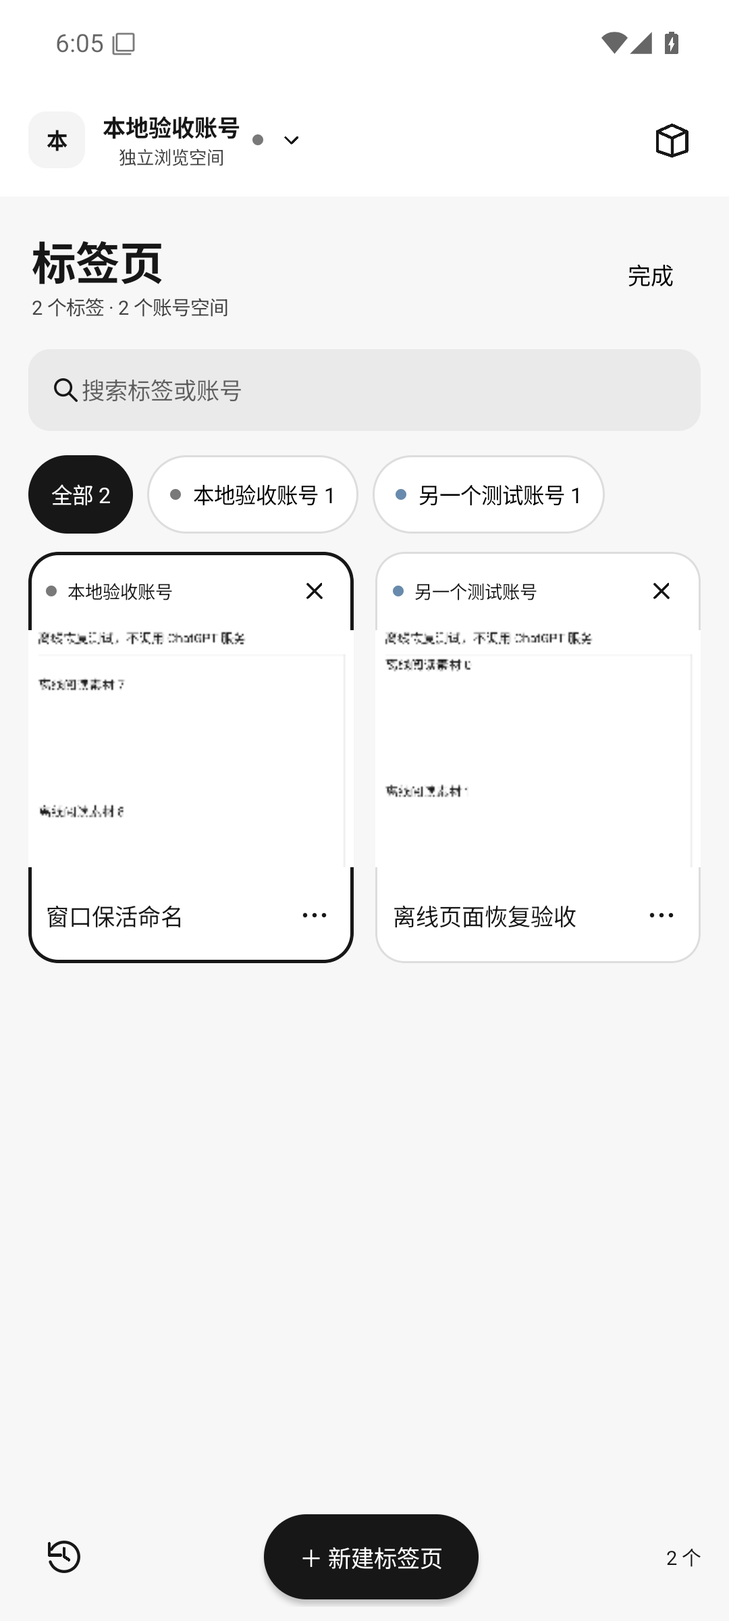
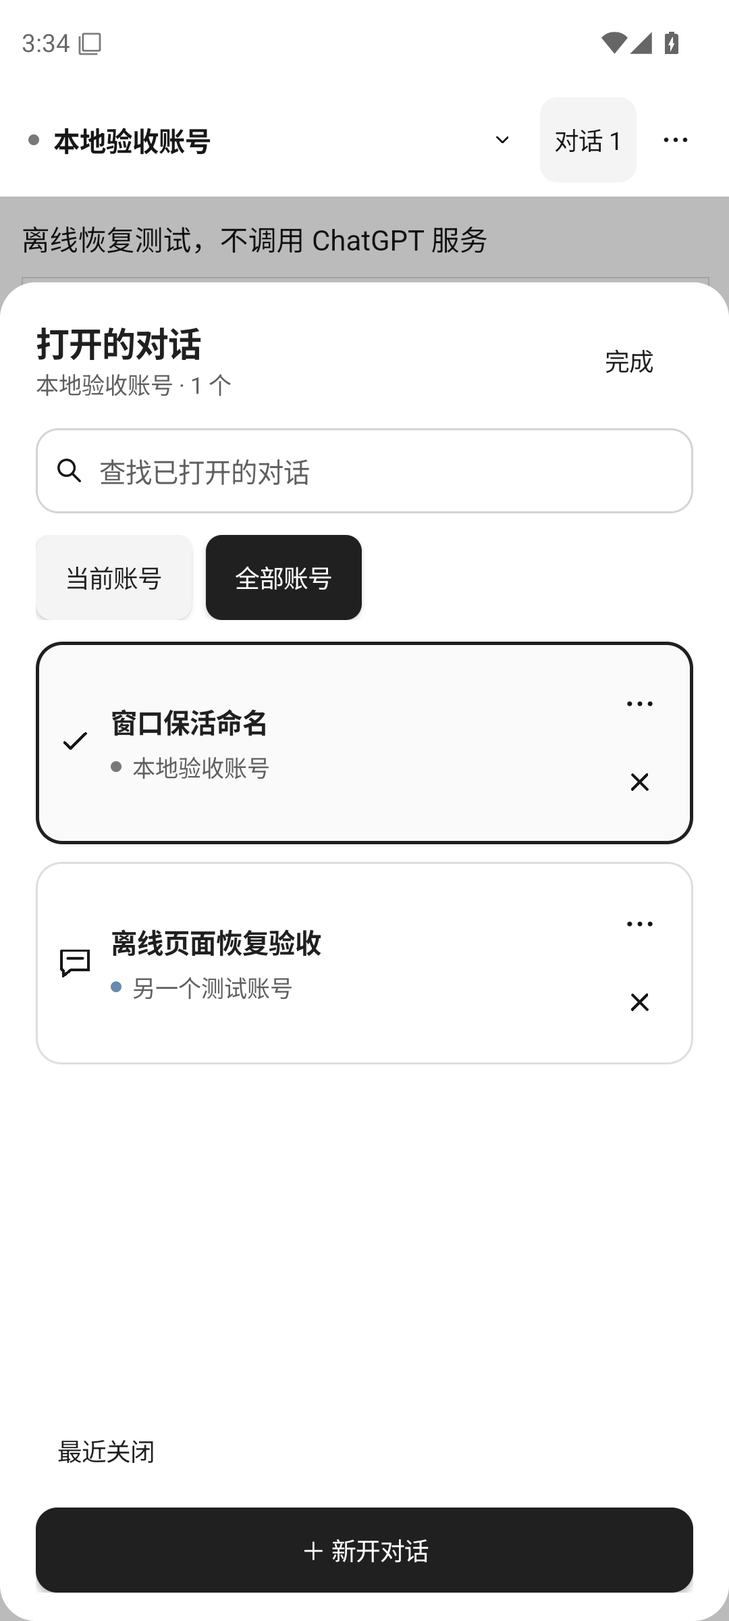
Prepare alpha.18 release and current website metadata

diff --git a/site/index.html b/site/index.html
@@ -17,7 +17,7 @@
     <link rel="canonical" href="https://chatgpt-studio.pages.dev/" />
     <meta property="og:url" content="https://chatgpt-studio.pages.dev/" />
     <title>ChatGPT Studio — 切换账号，保持专注</title>
-    <link rel="icon" type="image/svg+xml" href="/assets/icon.svg?v=3.0.0-alpha.17" />
+    <link rel="icon" type="image/svg+xml" href="/assets/icon.svg?v=3.0.0-alpha.18" />
     <link rel="stylesheet" href="/styles.css" />
     <script src="/app.js" defer></script>
   </head>
@@ -50,7 +50,7 @@
     <header class="header">
       <div class="nav-wrap container">
         <a class="brand" href="#" aria-label="ChatGPT Studio 首页"
-          ><span class="brand-mark"><img src="/assets/icon.svg?v=3.0.0-alpha.17" width="36" height="36" alt="" /></span
+          ><span class="brand-mark"><img src="/assets/icon.svg?v=3.0.0-alpha.18" width="36" height="36" alt="" /></span
           ><span>ChatGPT <b>Studio</b></span></a
         >
         <nav aria-label="主导航">
@@ -74,7 +74,7 @@
         <div class="hero-topline">
           <span><i class="status-dot"></i> PERSONAL WORKSPACE, REDEFINED.</span
           ><span class="hero-build"
-            >CHATGPT STUDIO · v3.0.0-alpha.17 / MAC · WINDOWS · ANDROID <span>↗</span></span
+            >CHATGPT STUDIO · v3.0.0-alpha.18 / MAC · WINDOWS · ANDROID <span>↗</span></span
           >
         </div>
         <div class="hero-grid">
@@ -297,28 +297,28 @@
             <article class="download-card" data-os="windows">
               <div class="download-card-top">
                 <svg class="os-icon filled"><use href="#windows" /></svg
-                ><span class="version">v3.0.0-alpha.17</span>
+                ><span class="version">v3.0.0-alpha.18</span>
               </div>
               <h3>Windows <span>x64</span></h3>
               <p class="system-requirement">Windows 10 / 11 · 64 位</p>
               <p class="platform-description">
-                交互 HTML、音视频与系统应用打开。<br />资产工作台、格式转换与草稿恢复。
+                清晰字号、窄窗详情与文件管理。<br />HTML、音视频、格式转换与草稿恢复。
               </p>
               <a
                 class="button button-platform"
-                href="https://github.com/ForceMind/ChatGPT/releases/download/v3.0.0-alpha.17/ChatGPT-Profiles-3.0.0-alpha.17-windows-x64-setup.exe"
+                href="https://github.com/ForceMind/ChatGPT/releases/download/v3.0.0-alpha.18/ChatGPT-Profiles-3.0.0-alpha.18-windows-x64-setup.exe"
                 ><span>下载 EXE 安装包</span><svg><use href="#download" /></svg
               ></a>
               <div class="download-secondary">
                 <span>124.9 MiB</span
                 ><a
-                  href="https://github.com/ForceMind/ChatGPT/releases/download/v3.0.0-alpha.17/ChatGPT-Profiles-3.0.0-alpha.17-windows-x64.zip"
+                  href="https://github.com/ForceMind/ChatGPT/releases/download/v3.0.0-alpha.18/ChatGPT-Profiles-3.0.0-alpha.18-windows-x64.zip"
                   >免安装 ZIP · 172.4 MiB <span>↗</span></a
                 >
               </div>
               <details class="accelerated-download">
                 <summary>国内用户加速下载 <span aria-hidden="true">+</span></summary>
-                <div class="accelerated-links"><a href="https://gh-proxy.org/https://github.com/ForceMind/ChatGPT/releases/download/v3.0.0-alpha.17/ChatGPT-Profiles-3.0.0-alpha.17-windows-x64-setup.exe" rel="noopener noreferrer" referrerpolicy="no-referrer">EXE 安装包 <span aria-hidden="true">↗</span></a><a href="https://gh-proxy.org/https://github.com/ForceMind/ChatGPT/releases/download/v3.0.0-alpha.17/ChatGPT-Profiles-3.0.0-alpha.17-windows-x64.zip" rel="noopener noreferrer" referrerpolicy="no-referrer">免安装 ZIP <span aria-hidden="true">↗</span></a></div>
+                <div class="accelerated-links"><a href="https://gh-proxy.org/https://github.com/ForceMind/ChatGPT/releases/download/v3.0.0-alpha.18/ChatGPT-Profiles-3.0.0-alpha.18-windows-x64-setup.exe" rel="noopener noreferrer" referrerpolicy="no-referrer">EXE 安装包 <span aria-hidden="true">↗</span></a><a href="https://gh-proxy.org/https://github.com/ForceMind/ChatGPT/releases/download/v3.0.0-alpha.18/ChatGPT-Profiles-3.0.0-alpha.18-windows-x64.zip" rel="noopener noreferrer" referrerpolicy="no-referrer">免安装 ZIP <span aria-hidden="true">↗</span></a></div>
                 <p>通过第三方 gh-proxy.org 下载；原始下载入口保留。安装前请核对下方 SHA-256，加速服务可能暂时不可用。</p>
               </details>
               <div class="platform-note">
@@ -329,7 +329,7 @@
                 <summary>版本说明与文件校验 <span>+</span></summary>
                 <p>
                   客户端真机与真实登录待验。<a
-                    href="https://github.com/ForceMind/ChatGPT/releases/tag/v3.0.0-alpha.17"
+                    href="https://github.com/ForceMind/ChatGPT/releases/tag/v3.0.0-alpha.18"
                     target="_blank"
                     rel="noopener noreferrer"
                     >查看发布说明 ↗</a
@@ -339,22 +339,22 @@
                   <span>EXE · SHA-256</span
                   ><button
                     type="button"
[2 lines of base64/hex data omitted]
                   >
                     复制</button
                   ><code
-                    >6f6b5e5381d1f8b8ce6fc7865b6bce780314a734ba4ed37cd2b243eac9b0b54a</code
+                    >60d5ee520b2bc758f251eecd190c08385ab4a562f0c0a789a828fd8643768db6</code
                   >
                 </div>
                 <div class="hash-row">
                   <span>ZIP · SHA-256</span
                   ><button
                     type="button"
[2 lines of base64/hex data omitted]
                   >
                     复制</button
                   ><code
-                    >e259d20f5626cfcc132dcc48a7228fa2e3a590dbf92945c2555ff70594f2cd35</code
+                    >b1de0769ca43bb7318bc3f8d8da0e5541125dcc02db83800159d5a8e113bd614</code
                   >
                 </div>
               </details>
@@ -362,28 +362,28 @@
             <article class="download-card" data-os="macos">
               <div class="download-card-top">
                 <svg class="os-icon filled"><use href="#apple" /></svg
-                ><span class="version">v3.0.0-alpha.17</span>
+                ><span class="version">v3.0.0-alpha.18</span>
               </div>
               <h3>macOS <span>Apple Silicon</span></h3>
               <p class="system-requirement">macOS 13+ · M 系列芯片</p>
               <p class="platform-description">
-                七阶段文件任务、双击预览与右键管理。<br />保留离线快照、恢复授权和确认更新。
+                清晰字号、窄窗详情与菜单栏快捷入口。<br />资产预览、格式转换与加密恢复。
               </p>
               <a
                 class="button button-platform"
-                href="https://github.com/ForceMind/ChatGPT/releases/download/v3.0.0-alpha.17/ChatGPT-Profiles-3.0.0-alpha.17-mac-arm64.dmg"
+                href="https://github.com/ForceMind/ChatGPT/releases/download/v3.0.0-alpha.18/ChatGPT-Profiles-3.0.0-alpha.18-mac-arm64.dmg"
                 ><span>下载 DMG 安装包</span><svg><use href="#download" /></svg
               ></a>
               <div class="download-secondary">
                 <span>147.4 MiB</span
                 ><a
-                  href="https://github.com/ForceMind/ChatGPT/releases/download/v3.0.0-alpha.17/ChatGPT-Profiles-3.0.0-alpha.17-mac-arm64.zip"
+                  href="https://github.com/ForceMind/ChatGPT/releases/download/v3.0.0-alpha.18/ChatGPT-Profiles-3.0.0-alpha.18-mac-arm64.zip"
                   >ZIP 压缩包 <span>↗</span></a
                 >
               </div>
               <details class="accelerated-download">
                 <summary>国内用户加速下载 <span aria-hidden="true">+</span></summary>
-                <div class="accelerated-links"><a href="https://gh-proxy.org/https://github.com/ForceMind/ChatGPT/releases/download/v3.0.0-alpha.17/ChatGPT-Profiles-3.0.0-alpha.17-mac-arm64.dmg" rel="noopener noreferrer" referrerpolicy="no-referrer">DMG 安装包 <span aria-hidden="true">↗</span></a><a href="https://gh-proxy.org/https://github.com/ForceMind/ChatGPT/releases/download/v3.0.0-alpha.17/ChatGPT-Profiles-3.0.0-alpha.17-mac-arm64.zip" rel="noopener noreferrer" referrerpolicy="no-referrer">ZIP 压缩包 <span aria-hidden="true">↗</span></a></div>
+                <div class="accelerated-links"><a href="https://gh-proxy.org/https://github.com/ForceMind/ChatGPT/releases/download/v3.0.0-alpha.18/ChatGPT-Profiles-3.0.0-alpha.18-mac-arm64.dmg" rel="noopener noreferrer" referrerpolicy="no-referrer">DMG 安装包 <span aria-hidden="true">↗</span></a><a href="https://gh-proxy.org/https://github.com/ForceMind/ChatGPT/releases/download/v3.0.0-alpha.18/ChatGPT-Profiles-3.0.0-alpha.18-mac-arm64.zip" rel="noopener noreferrer" referrerpolicy="no-referrer">ZIP 压缩包 <span aria-hidden="true">↗</span></a></div>
                 <p>通过第三方 gh-proxy.org 下载；原始下载入口保留。安装前请核对下方 SHA-256，加速服务可能暂时不可用。</p>
               </details>
               <div class="platform-note">
@@ -394,7 +394,7 @@
                 <summary>版本说明与文件校验 <span>+</span></summary>
                 <p>
                   <a
-                    href="https://github.com/ForceMind/ChatGPT/releases/tag/v3.0.0-alpha.17"
+                    href="https://github.com/ForceMind/ChatGPT/releases/tag/v3.0.0-alpha.18"
                     target="_blank"
                     rel="noopener noreferrer"
                     >查看发布说明 ↗</a
@@ -404,22 +404,22 @@
                   <span>DMG · SHA-256</span
                   ><button
                     type="button"
[2 lines of base64/hex data omitted]
                   >
                     复制</button
                   ><code
-                    >07b227b1fe4cea59a8768c774676bbd372916a82de97ba067e83b63c5edba023</code
+                    >3cd41e7ffe435ad43f52a2eb12fbef80679034a8e3f9e72582562c0f8a02f255</code
                   >
                 </div>
                 <div class="hash-row">
                   <span>ZIP · SHA-256</span
                   ><button
                     type="button"
[2 lines of base64/hex data omitted]
                   >
                     复制</button
                   ><code
-                    >06fdbfa404794aa287f1d3c60bf85b39134b28e2cbd059fe806cb569e4e4c383</code
+                    >b270a9ff763345205ade0b16a20599acf435e1dc2904273f7b95eadd1c89dccb</code
                   >
                 </div>
               </details>
@@ -427,18 +427,18 @@
             <article class="download-card" data-os="android">
               <div class="download-card-top">
                 <svg class="os-icon"><use href="#android" /></svg
-                ><span class="version">v3.0.0-alpha.17</span>
+                ><span class="version">v3.0.0-alpha.18</span>
               </div>
               <h3>Android <span>手机 / 平板</span></h3>
               <p class="system-requirement">
                 Android 9+ · 支持多档案的 WebView
               </p>
               <p class="platform-description">
-                卡片式标签、账号筛选与后台任务。<br />独立空间、资产工作台与草稿恢复。
+                直接进入网页，对话清单按需展开。<br />独立账号、资产工作台与草稿恢复。
               </p>
               <a
                 class="button button-platform"
-                href="https://github.com/ForceMind/ChatGPT/releases/download/v3.0.0-alpha.17/ChatGPT-Profiles-3.0.0-alpha.17-android.apk"
+                href="https://github.com/ForceMind/ChatGPT/releases/download/v3.0.0-alpha.18/ChatGPT-Profiles-3.0.0-alpha.18-android.apk"
                 ><span>下载 APK 安装包</span><svg><use href="#download" /></svg
               ></a>
               <div class="download-secondary">
@@ -446,7 +446,7 @@
               </div>
               <details class="accelerated-download">
                 <summary>国内用户加速下载 <span aria-hidden="true">+</span></summary>
-                <div class="accelerated-links"><a href="https://gh-proxy.org/https://github.com/ForceMind/ChatGPT/releases/download/v3.0.0-alpha.17/ChatGPT-Profiles-3.0.0-alpha.17-android.apk" rel="noopener noreferrer" referrerpolicy="no-referrer">APK 安装包 <span aria-hidden="true">↗</span></a></div>
+                <div class="accelerated-links"><a href="https://gh-proxy.org/https://github.com/ForceMind/ChatGPT/releases/download/v3.0.0-alpha.18/ChatGPT-Profiles-3.0.0-alpha.18-android.apk" rel="noopener noreferrer" referrerpolicy="no-referrer">APK 安装包 <span aria-hidden="true">↗</span></a></div>
                 <p>通过第三方 gh-proxy.org 下载；原始下载入口保留。安装前请核对下方 SHA-256，加速服务可能暂时不可用。</p>
               </details>
               <div class="platform-note">
@@ -457,7 +457,7 @@
                 <summary>版本说明与文件校验 <span>+</span></summary>
                 <p>
                   <a
-                    href="https://github.com/ForceMind/ChatGPT/releases/tag/v3.0.0-alpha.17"
+                    href="https://github.com/ForceMind/ChatGPT/releases/tag/v3.0.0-alpha.18"
                     target="_blank"
                     rel="noopener noreferrer"
                     >查看发布说明 ↗</a
@@ -467,11 +467,11 @@
                   <span>APK · SHA-256</span
                   ><button
                     type="button"
[2 lines of base64/hex data omitted]
                   >
                     复制</button
                   ><code
-                    >fe6f64eafdee554f297114a447af6ad4a60b6f1885bef8b4b764135665258ff3</code
+                    >3d3bda26cf4cd0b699a94a0c6ae17aa86a185cd15c342e8338fbffd32eaf460f</code
                   >
                 </div>
               </details>
@@ -518,7 +518,7 @@
             <h3>创建空间，登录账号</h3>
             <p>
               打开即进入
-              ChatGPT。在网页中手动登录，再从右上角账号菜单添加其他空间，为每个空间写好名称与邮箱备注。
+              ChatGPT。在网页中手动登录，再从账号菜单添加其他空间，为每个空间写好名称与邮箱备注。
             </p>
           </article>
           <article>
@@ -551,7 +551,8 @@
           <li data-milestone="macos-alpha13"><div class="milestone-version"><strong>钥匙串授权与恢复重试</strong>2026.10.23 · macOS alpha.13</div><div class="milestone-copy"><h3>授权更清楚，恢复有退路。</h3><p>在可见窗口说明本地加密用途，可先打开网页，或在授权失败后重试；未解锁时保留旧恢复原件，退出前提醒本次草稿尚未保存。后台更新重开后回到 App 再恢复。Touch ID 受保护密钥需要稳定签名，当前临时签名包尚不能启用。安装包由 GitHub Actions 构建，经过包内比对、原生组件及完整 ZIP 隔离安装校验；个人账号升级仍需实际验收。</p><a href="https://github.com/ForceMind/ChatGPT/releases/tag/v3.0.0-alpha.13" target="_blank" rel="noopener noreferrer">查看 macOS alpha.13 发布记录 ↗</a></div><span class="milestone-status">公开预发布</span></li>
           <li data-milestone="studio-alpha16"><div class="milestone-version"><strong>ChatGPT Studio</strong>2026.10.24 · 三端 alpha.16</div><div class="milestone-copy"><h3>新名字，继续已有的工作。</h3><p>三端统一名称。桌面包含七阶段文件任务、富文本写入校验、资产双击与右键管理；Android 补齐系统图标适配。保留原应用标识、加密身份和登录数据目录，安装文件中的旧名称用于升级兼容。通过平台 CI、Mac 完整 ZIP 安装与 Windows 安装 / 退出 / 卸载保留数据检查；Android 沿用固定证书。真实账号附件发送与 Android 首页 / 真机流程仍待人工验收。</p><a href="https://github.com/ForceMind/ChatGPT/releases/tag/v3.0.0-alpha.16" target="_blank" rel="noopener noreferrer">查看 alpha.16 发布记录 ↗</a></div><span class="milestone-status">公开预发布</span></li>
           <li data-milestone="studio-alpha17"><div class="milestone-version"><strong>标签与文件工作空间</strong>2026.10.25 · 三端 alpha.17</div><div class="milestone-copy"><h3>页面留在原处，文件有清楚的去向。</h3><p>Android 上线手机 / 平板卡片总览、账号筛选、搜索与标签管理，窗口重建保留网页，加入可选的通知后台任务和保活诊断；修正隐藏标签的执行节流。桌面完善交互 HTML、音视频、文本 / 代码与系统应用打开。全部 120 个 Skill 定义及代表性附件流程完成隔离检查；兼容内核下完成 8 页 330 秒、锁屏 / 省电 / 网络与进程重启恢复。保留既有账号与签名身份，实站和厂商真机仍单独验收。</p><a href="https://github.com/ForceMind/ChatGPT/releases/tag/v3.0.0-alpha.17" target="_blank" rel="noopener noreferrer">查看 alpha.17 发布记录 ↗</a></div><span class="milestone-status">公开预发布</span></li>
-        </ol><p class="milestone-note">当前三端公开预发布版均为 alpha.17。Android 继续使用 System WebView，版本达标之外还需多档案能力；独立环境 PoC 未替换现有登录空间。真实账号业务与真机验收另行记录。</p>
+          <li data-milestone="studio-alpha18"><div class="milestone-version"><strong>清晰界面与沉浸对话</strong>2026.10.25 · 三端 alpha.18</div><div class="milestone-copy"><h3>专注网页，需要时再展开工具。</h3><p>三端统一 App 自有界面的字号与对比度，桌面窄窗详情使用抽屉；恢复 Mac 顶部菜单栏图标。Android 默认进入网页，仅保留账号、对话和更多，对话清单按需展开，边框完整，最近关闭用文字说明；移除首页底栏和普通菜单的开发诊断。前台切换已加载页面复用原网页、草稿、滚动和生成上下文，无需后台服务。保留账号数据和签名身份，进程终止后仍需加载一次再恢复，实站与厂商真机另行验收。</p><a href="https://github.com/ForceMind/ChatGPT/releases/tag/v3.0.0-alpha.18" target="_blank" rel="noopener noreferrer">查看 alpha.18 发布记录 ↗</a></div><span class="milestone-status">公开预发布</span></li>
+        </ol><p class="milestone-note">当前三端公开预发布版均为 alpha.18。Android 继续使用 System WebView，版本达标之外还需多档案能力；独立环境 PoC 未替换现有登录空间。真实账号业务与真机验收另行记录。</p>
       </section>
 
       <section
@@ -626,8 +627,8 @@
             </p>
           </details>
           <details>
-            <summary>Android 如何让任务在后台继续？<span>+</span></summary>
-            <p>从底部“更多 → 保活与诊断”主动开启后台任务模式，允许通知后会显示常驻通知，可随时停止。App 前台保持已打开标签执行；后台模式会增加耗电，系统休眠、厂商省电、强制停止与网络服务仍可能中断任务。诊断入口可查看版本、网络和重载记录，应用不会自动重发结果不明的消息。</p>
+            <summary>Android 切换对话会重新加载吗？<span>+</span></summary>
+            <p>App 运行期间切换已打开的对话，会复用原网页，保留草稿、阅读位置和正在生成的上下文，无需开启后台服务。打开对话清单也不会卸载当前网页。真正终止进程后需重新加载，再恢复已保存的草稿与位置；系统回收或网页服务本身也可能中断连接，应用不会自动重发消息。</p>
           </details>
           <details>
             <summary>如何校验下载、更新或清除账号？<span>+</span></summary>

diff --git a/site/app.js b/site/app.js
@@ -16,8 +16,8 @@ const platforms = {
   },
   android: {
     image: "android-tabs.png",
-    caption: "Android · 原生标签总览 / 模拟器 · 本地测试账号",
-    alt: "Android 客户端原生标签总览实际截图：账号身份、筛选、搜索、标签卡片和新建入口。网页内容为本地测试素材，非真实 ChatGPT 首页。",
+    caption: "Android alpha.18 · 原生对话清单 / 模拟器 · 本地测试账号",
+    alt: "Android alpha.18 客户端原生对话清单截图：账号筛选、搜索、完整边框、最近关闭和新开对话。背后网页为本地测试素材，非真实 ChatGPT 首页。",
     width: 1080,
     height: 2400,
     kind: "ANDROID · ACTUAL APP / LOCAL FIXTURES",
@@ -25,7 +25,7 @@ const platforms = {
 };
 const androidViews = {
   tabs: platforms.android,
-  tablet: {...platforms.android,image:"android-tablet-tabs.png",width:1600,height:2560,caption:"Android · 平板原生标签总览 / 模拟器 · 本地测试账号",alt:"Android 平板原生三列标签总览，含账号筛选、搜索与标签管理入口；测试素材不是真实 ChatGPT 首页。"},
+  tablet: {...platforms.android,image:"android-tablet-tabs.png",width:1600,height:2560,caption:"Android alpha.18 · 平板原生对话清单 / 模拟器 · 本地测试账号",alt:"Android alpha.18 平板原生右侧对话清单，含账号筛选、搜索和管理入口；背后网页为测试素材，并非真实 ChatGPT 首页。"},
   assets: {...platforms.android,image:"android-assets.png",caption:"Android · 资产库实际界面 / 模拟器 · 示例文件",alt:"Android 客户端资产库实际截图：独立账号下的 PDF、PNG 和 HTML 示例文件，带搜索、导入和交给 GPT 入口；采集于 Android 15 模拟器。"},
   skills: {...platforms.android,image:"android-skills.png",caption:"Android · 120 个 Skill 实际界面 / 模拟器 · 本地示例账号",alt:"Android 客户端能力库实际截图：120 个项目 Skill、原生搜索与任务说明；采集于 Android 15 模拟器，尚无预置智能体。"},
 };

diff --git a/README.en.md b/README.en.md
@@ -4,7 +4,7 @@
   <p>Independent accounts. Immersive browsing. Local asset workflows.</p>
   <p><a href="README.md">简体中文</a> · <strong>English</strong></p>
   <p>
-    <a href="https://github.com/ForceMind/ChatGPT/releases/tag/v3.0.0-alpha.17"><img alt="Latest prerelease" src="https://img.shields.io/github/v/release/ForceMind/ChatGPT?include_prereleases&amp;sort=semver&amp;label=pre-release&amp;labelColor=171717&amp;color=555555" /></a>
+    <a href="https://github.com/ForceMind/ChatGPT/releases/tag/v3.0.0-alpha.18"><img alt="Latest prerelease" src="https://img.shields.io/github/v/release/ForceMind/ChatGPT?include_prereleases&amp;sort=semver&amp;label=pre-release&amp;labelColor=171717&amp;color=555555" /></a>
     <a href="https://github.com/ForceMind/ChatGPT/actions/workflows/android.yml"><img alt="Android CI" src="https://img.shields.io/github/actions/workflow/status/ForceMind/ChatGPT/android.yml?branch=main&amp;label=Android%20CI&amp;labelColor=171717&amp;color=555555" /></a>
     <img alt="Electron 44.9" src="https://img.shields.io/badge/Electron-44.9-555555?logo=electron&amp;logoColor=white&amp;labelColor=171717" />
     <img alt="Java 17" src="https://img.shields.io/badge/Java-17-555555?labelColor=171717" />
@@ -15,7 +15,7 @@
 
 ChatGPT Studio brings independent ChatGPT account spaces, tabs, downloaded assets, previews, conversions and reviewed file tasks into one application. Launch directly into the website with a white, gray and black interface and no address bar. Each device signs in independently; no OpenAI API key is required.
 
-> Previously named **ChatGPT Profiles**. The current public prerelease is **3.0.0-alpha.17** on all three supported platforms. Legacy filenames, internal identifiers and data locations are retained for upgrade compatibility.
+> Previously named **ChatGPT Profiles**. The current public prerelease is **3.0.0-alpha.18** on all three supported platforms. Legacy filenames, internal identifiers and data locations are retained for upgrade compatibility.
 
 ![Actual historical macOS window, before the rename](docs/images/macos-immersive.png)
 
@@ -60,9 +60,9 @@ Devices do not synchronize sign-in credentials. Alternative Android engines rema
 
 | Platform | Version | Downloads | Requirements |
 | --- | --- | --- | --- |
-| macOS · Apple Silicon | 3.0.0-alpha.17 | [DMG](https://github.com/ForceMind/ChatGPT/releases/download/v3.0.0-alpha.17/ChatGPT-Profiles-3.0.0-alpha.17-mac-arm64.dmg) · [ZIP](https://github.com/ForceMind/ChatGPT/releases/download/v3.0.0-alpha.17/ChatGPT-Profiles-3.0.0-alpha.17-mac-arm64.zip) | macOS 13+ |
-| Windows · x64 | 3.0.0-alpha.17 | [EXE](https://github.com/ForceMind/ChatGPT/releases/download/v3.0.0-alpha.17/ChatGPT-Profiles-3.0.0-alpha.17-windows-x64-setup.exe) · [Portable ZIP](https://github.com/ForceMind/ChatGPT/releases/download/v3.0.0-alpha.17/ChatGPT-Profiles-3.0.0-alpha.17-windows-x64.zip) | Windows 10/11, 64-bit |
-| Android · Phone/tablet | 3.0.0-alpha.17 | [APK](https://github.com/ForceMind/ChatGPT/releases/download/v3.0.0-alpha.17/ChatGPT-Profiles-3.0.0-alpha.17-android.apk) | Android 9+, WebView with multi-profile support |
+| macOS · Apple Silicon | 3.0.0-alpha.18 | [DMG](https://github.com/ForceMind/ChatGPT/releases/download/v3.0.0-alpha.18/ChatGPT-Profiles-3.0.0-alpha.18-mac-arm64.dmg) · [ZIP](https://github.com/ForceMind/ChatGPT/releases/download/v3.0.0-alpha.18/ChatGPT-Profiles-3.0.0-alpha.18-mac-arm64.zip) | macOS 13+ |
+| Windows · x64 | 3.0.0-alpha.18 | [EXE](https://github.com/ForceMind/ChatGPT/releases/download/v3.0.0-alpha.18/ChatGPT-Profiles-3.0.0-alpha.18-windows-x64-setup.exe) · [Portable ZIP](https://github.com/ForceMind/ChatGPT/releases/download/v3.0.0-alpha.18/ChatGPT-Profiles-3.0.0-alpha.18-windows-x64.zip) | Windows 10/11, 64-bit |
+| Android · Phone/tablet | 3.0.0-alpha.18 | [APK](https://github.com/ForceMind/ChatGPT/releases/download/v3.0.0-alpha.18/ChatGPT-Profiles-3.0.0-alpha.18-android.apk) | Android 9+, WebView with multi-profile support |
 
 **macOS:** open the DMG and drag the app into Applications. Current packages are ad-hoc signed and not notarized. If macOS blocks the first launch, verify the source/checksum and consult [Apple's installation guidance](https://support.apple.com/en-us/102445).
 
@@ -72,11 +72,11 @@ Devices do not synchronize sign-in credentials. Alternative Android engines rema
 
 The [website](https://chatgpt-studio.pages.dev/) provides GitHub downloads and optional third-party acceleration links. Compare downloads with `SHA256SUMS.txt` in the Release. The current version is a **prerelease**; stable-only tools may report no Latest release. The version badge above includes prereleases, and the table links directly to the published assets.
 
-### What changed in alpha.17
+### What changed in alpha.18
 
-Desktop adds interactive HTML temporary storage, explicit per-file HTTPS resource permission, media controls, additional text/code formats and system-app opening. HTML is offline by default. Office files, archives and unsupported codecs depend on installed file associations; originals are preserved.
+App-owned desktop UI now uses clearer type and contrast, with 15px body text, 14px supporting text and a 13px label floor. Narrow windows use a details drawer. The macOS menu bar icon is restored for window, account, workbench and update actions.
 
-Android adds card-based tabs and fixes hidden-page execution throttling. Open pages keep running while the app is foreground. An explicit notification-backed mode can continue tasks in the background. Window recreation reuses pages; process termination requires reloading before restoring saved drafts and reading positions. See the [release manifest](docs/releases/3.0.0-alpha.17.json) for exact binaries, sources and signatures.
+Android opens directly into the webpage with account, conversations and more controls. A searchable conversation sheet supports pinning, renaming, sorting, closing and restoring recent tabs. Browser-style bottom controls and developer diagnostics are removed from normal menus. Foreground switches reuse the original webpage, draft, scroll and generation context without a background service. Window recreation reuses pages; process termination requires reloading before restoring saved drafts and positions. See the [release manifest](docs/releases/3.0.0-alpha.18.json) for exact binaries, sources and signatures.
 
 macOS checks for updates at launch and at noon in Shanghai time. After confirmation it downloads and verifies a complete ZIP. Installation can run immediately, on exit or after the app has been idle under the configured safeguards. Native application updates require a restart; delta updates are not implemented. Windows and Android currently update manually.
 
@@ -133,7 +133,7 @@ Web pages are sandboxed without Node or local administration interfaces. HTML pr
 | Windows | 62 applicable unit checks, 14 applicable interface flows, installation/normal exit/uninstall with account data retained |
 | Android | 66 unit checks, 4 phone and 4 tablet flows; three accounts/eight pages for 330 seconds, lock/Doze/network recovery and a real process restart |
 
-The Android matrix covers actual stock OS/WebView combinations from API28 through API36. Compatible providers on Android 12L, 15 and 16 passed the full lifecycle flow. Six older stock providers only passed the required update-message check; they are not retention successes. OS version alone does not determine support. See the [native CI record](docs/releases/3.0.0-alpha.17-native-ci.json).
+The Android matrix covers actual stock OS/WebView combinations from API28 through API36. Compatible providers on Android 12L, 15 and 16 passed the full lifecycle flow. Six older stock providers only passed the required update-message check; they are not retention successes. OS version alone does not determine support. See the [alpha.17 system compatibility record](docs/releases/3.0.0-alpha.17-native-ci.json). Current native UI and foreground checks are listed in the [alpha.18 CI index](docs/releases/3.0.0-alpha.18-ci.json).
 
 For the eight-page synthetic workload, final background PSS totals were about **234–284 MiB**. Three short CPU samples per group ranged from **1.9–5.8% of one core**. These include app processes, WebView sandboxes and debug transport overhead, and are not real ChatGPT or physical-device measurements.
 
@@ -178,7 +178,7 @@ Cloudflare Pages uses Direct Upload; a Git push does not deploy the site automat
 | --- | --- |
 | Real macOS account upload/first-message/single-send acceptance | Deferred manual acceptance; isolated flows pass |
 | Android real homepage, accounts, voice/files and vendor devices | Deferred manual acceptance; website images are labeled native fixtures |
-| Alpha.17 installers, native tabs/background mode and desktop file opening | Published; [publication/online record](docs/releases/3.0.0-alpha.17-publication.json) |
+| Alpha.18 installers, immersive Android, readable UI and macOS menu bar | Published; [publication/online record](docs/releases/3.0.0-alpha.18-publication.json) |
 | Windows offline snapshots/auto-updates; complete Android offline snapshots | Future batch |
 | Android per-account locale/timezone engine migration | Separate PoC; regular engine is unchanged |
 | System/Chrome passkeys, signed Touch ID and stable signing | Not integrated or dependent on unavailable certificates/device acceptance |
